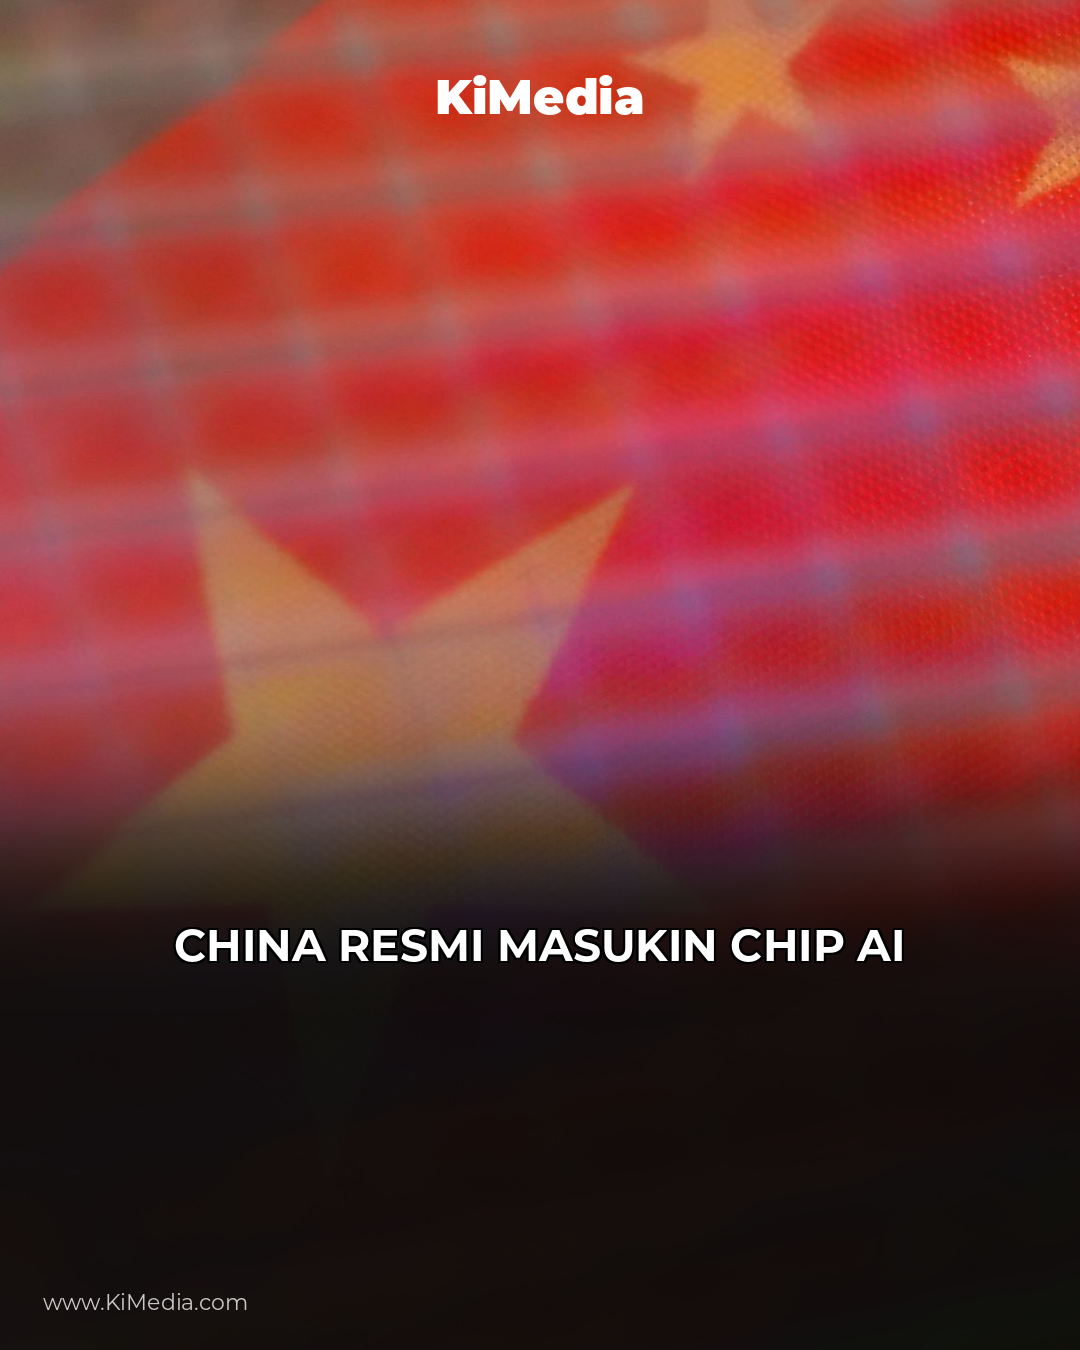
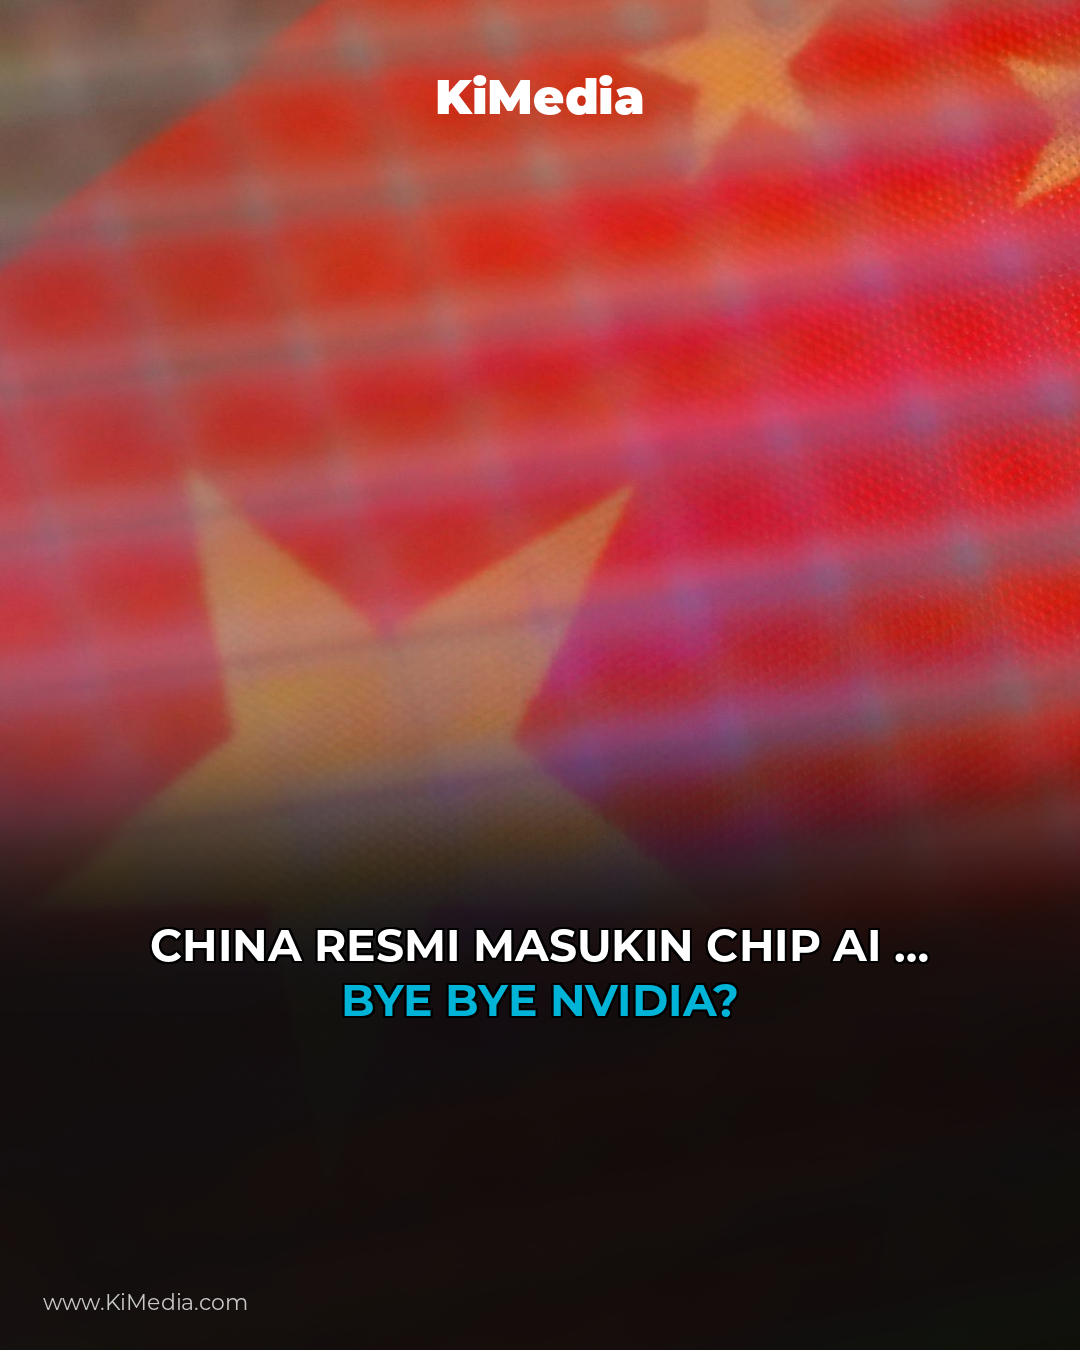
Cron Job 06.07

Changed region(s): [[0.1222, 0.6844, 0.8556, 0.7778]]

diff --git a/script/generate.py b/script/generate.py
@@ -211,6 +211,78 @@ def check_text_contrast(img, text_positions, threshold_brightness=180):
     return bright_zones / total_zones < 0.4  # <40% bright zones = OK
 
 
+# ── Smart line fitting ──
+def smart_fit_line(text, max_width, font, draw, size):
+    """Fit a single line within max_width. Returns (fitted_text, truncated_bool).
+    
+    5-stage pipeline:
+    1. Strip quotes
+    2. Word-boundary truncation with "…" (preserves grammar)
+    3. Remove clause after punctuation (— , ;)
+    4. Remove filler words
+    5. Character-level truncation (last resort)
+    """
+    def text_w(t):
+        bb = draw.textbbox((0, 0), t, font=font)
+        return bb[2] - bb[0]
+
+    if text_w(text) <= max_width:
+        return text, False
+
+    # Stage 1: Strip quotes
+    noq = text
+    for ch in ['\u201c', '\u201d', '\u2018', '\u2019', '"', '"']:
+        noq = noq.replace(ch, '')
+    noq = noq.strip('"')
+    if noq != text and text_w(noq) <= max_width:
+        return noq, True
+
+    current = noq if noq else text
+
+    # Stage 2: Word-boundary truncation
+    words = current.split()
+    if len(words) >= 2:
+        for i in range(len(words) - 1, 0, -1):
+            t = ' '.join(words[:i]) + ' \u2026'
+            if text_w(t) <= max_width:
+                return t, True
+
+    # Stage 3: Remove clause after punctuation
+    for sep in [' \u2014 ', ' \u2013 ', ' - ', ', ', '; ']:
+        if sep in current:
+            before = current.split(sep, 1)[0].strip()
+            if before and text_w(before) <= max_width:
+                return before, True
+
+    # Stage 4: Remove filler words from middle
+    if len(words) >= 3:
+        filler = {'yang', 'paling', 'sangat', 'telah', 'sudah', 'sedang',
+                  'ini', 'itu', 'para', 'serta', 'lagi', 'juga', 'atau',
+                  'dapat', 'bisa', 'di', 'ke', 'dari', 'untuk', 'dengan', 'tanpa'}
+        w = words[:]
+        changed = True
+        while changed:
+            changed = False
+            for i in range(1, len(w) - 1):
+                word = w[i].lower().strip('.,;:!?')
+                if word in filler:
+                    nw = w[:i] + w[i+1:]
+                    nt = ' '.join(nw)
+                    if text_w(nt) <= max_width:
+                        return nt, True
+                    w = nw
+                    changed = True
+                    break
+
+    # Stage 5: Character-level truncation
+    for i in range(len(current) - 1, 5, -1):
+        t = current[:i] + '\u2026'
+        if text_w(t) <= max_width:
+            return t, True
+
+    return current[:4] + '\u2026', True
+
+
 # ── Determine highlight index dynamically ──
 def get_highlight_index(num_lines):
     """2 lines → line 0, 3 lines → line 1, 1 line → no highlight"""
@@ -274,13 +346,12 @@ def generate_thumbnail(thumb_lines, highlight_idx, image_url, cfg, output_path):
     if highlight_idx is None or highlight_idx < 0:
         highlight_idx = get_highlight_index(len(lines))
 
-    # ── Auto-split long lines ──
-    # Try to fit at default size first, then downsample
+    # ── Find best font size + fit each line ──
     default_size = hl_cfg.get("default_size", 56)
     min_size = hl_cfg.get("min_size", 44)
     max_text_w = int(W * hl_cfg.get("max_width_pct", 0.88)) - PADDING_PX
 
-    # Find font size that fits ALL lines
+    # Find font size where MOST lines fit naturally
     font_size = default_size
     while font_size >= min_size:
         ft = get_font(hl_cfg.get("font", "Montserrat-Bold"), font_size)
@@ -292,56 +363,20 @@ def generate_thumbnail(thumb_lines, highlight_idx, image_url, cfg, output_path):
             break
         font_size -= 2
 
-    # If even at min_size it doesn't fit, try splitting the longest line
-    if font_size < min_size:
-        font_size = min_size
-        ft = get_font(hl_cfg.get("font", "Montserrat-Bold"), font_size)
-        # Try to split the longest line at word boundary
-        new_lines = []
-        for text in lines:
-            bb = draw_orig.textbbox((0, 0), text, font=ft)
-            tw = bb[2] - bb[0]
-            if tw > max_text_w and len(new_lines) < max_lines:
-                # Split at midpoint word boundary
-                words = text.split()
-                if len(words) >= 3:
-                    half = len(words) // 2
-                    line_a = " ".join(words[:half])
-                    line_b = " ".join(words[half:])
-                    new_lines.append(line_a)
-                    if len(new_lines) < max_lines:
-                        new_lines.append(line_b)
-                else:
-                    new_lines.append(text)
-            else:
-                if len(new_lines) < max_lines:
-                    new_lines.append(text)
-        lines = new_lines[:max_lines]
-
-    # Re-check if all lines fit at min_size
+    # If some lines still don't fit at min_size -> smart-fit them
+    font_size = max(min_size, font_size)
     ft = get_font(hl_cfg.get("font", "Montserrat-Bold"), font_size)
-    all_fit = True
+    fitted_lines = []
+    shortened_count = 0
     for text in lines:
-        bb = draw_orig.textbbox((0, 0), text, font=ft)
-        tw = bb[2] - bb[0]
-        if tw > max_text_w:
-            all_fit = False
-            break
+        fitted, shortened = smart_fit_line(text, max_text_w, ft, draw_orig, font_size)
+        fitted_lines.append(fitted)
+        if shortened:
+            shortened_count += 1
+    lines = fitted_lines
 
-    if not all_fit:
-        # Last resort: drop last line
-        while len(lines) > 1 and not all_fit:
-            lines = lines[:-1]
-            all_fit = True
-            for text in lines:
-                bb = draw_orig.textbbox((0, 0), text, font=ft)
-                tw = bb[2] - bb[0]
-                if tw > max_text_w:
-                    all_fit = False
-                    break
-        if not all_fit:
-            print(f"  [SKIP] Lines still don't fit even after reduction")
-            return None
+    if shortened_count > 0:
+        print(f"  [FIT] {shortened_count}/{len(lines)} line(s) shortened to fit")
 
     # ── Calculate positions ──
     line_spacing = hl_cfg.get("line_spacing", 1.25)

diff --git a/PLAN_V8.1.md b/PLAN_V8.1.md
@@ -1,0 +1,78 @@
+# Plan: Fix generate.py — Drop Logic → Smart Shorten + Truncate
+
+## Root Cause
+
+The current "split → drop lines from end" strategy destroys content.
+When a line is too long at min_size (44px), the code:
+1. Splits long line at word midpoint → split halves still too long
+2. Drops lines from the end → important content (highlight, quote) gets deleted
+3. Result: 1-line thumbnails with incomplete info
+
+## Real Data (measured at 44px Montserrat-Bold)
+
+| Line | Width | Available | Over |
+|------|-------|-----------|------|
+| "Illinois sahkan und-und…" | 1606px | 896px | +710px |
+| "CHINA RESMI MASUKIN CHIP AI…" | 1931px | 896px | +1035px |
+| '"Gak Ada yang Bisa Gantiin Jiwa Manusia"' | 972px | 896px | +76px |
+| '"AI kayak sutradara milyarder…"' | 1875px | 896px | +979px |
+| "Spielberg Buka Suara Soal AI di Hollywood" | 978px | 896px | +82px |
+
+## Solution: 5-Stage Line Fitting
+
+**Ganti `split → drop` dengan pipeline berikut:**
+
+### Stage 1: Strip quotes
+- Hapus semua karakter quote (`"`, `"`, `"`, `'`)
+- Aman, purely cosmetic, hemat 15-30px per line
+
+### Stage 2: Word-boundary truncation with "…" ← CORE FIX
+- Hilangkan kata dari akhir satu per satu, ganti dengan "…"
+- **Always preserves word integrity** — ga ada kata kepotong
+- Hasil: kalimat utuh (meski ga lengkap), lebih baik dari kalimat rusak
+- Bonus: "…" bikin curiosity gap = clickbait alami
+
+**All 4 kasus solved at 44px:**
+| Kasus | Hasil | Width |
+|-------|-------|-------|
+| 22.00-03 | "Illinois sahkan und-und AI paling …" | 807px ✓ |
+| 15.00-04 | "CHINA RESMI MASUKIN CHIP AI …" | 779px ✓ |
+| 16.00-05 | "Gak Ada yang Bisa Gantiin Jiwa …" | 775px ✓ |
+| 22.00-05 | "AI kayak sutradara milyarder yang …" | 838px ✓ |
+| 16.00_l0 | "Spielberg Buka Suara Soal AI di …" | 768px ✓ |
+
+### Stage 3: Remove clause after punctuation (backup)
+- Split di em-dash (` — `), koma, titik koma
+- Keep bagian utama (sebelum separator)
+- Hanya dipake kalo Stage 2 hasilnya <3 kata (terlalu pendek)
+
+### Stage 4: Remove filler words (last resort before char truncation)
+- Hapus "yang", "paling", "sangat", dll dari tengah kalimat
+- Baru dipake kalo semua stage di atas gagal
+
+### Stage 5: Character-level truncation (absolute last resort)
+- Potong karakter demi karakter + "…"
+- Hampir tidak pernah kepake karena Stage 2 udah handle semua kasus
+
+## Changes to generate.py
+
+### Remove:
+- ✅ All drop-lines-from-end logic (`while len(lines) > 1 and not all_fit`)
+- ✅ The word-midpoint split logic (ga perlu lagi)
+- ✅ `font_size < min_size` check that triggered the broken flow
+
+### Add:
+- ✅ `smart_fit_line(text, max_width, font, draw)` — 5-stage pipeline
+- ✅ Word-boundary truncation: iterasi dari belakang, cek width, tambah "…"
+- ✅ Quote stripping di `process_article()` + `smart_fit_line()`
+
+### Keep:
+- ✅ Font size stepping (56→44px)
+- ✅ `max_lines = 3`
+- ✅ Frame padding safety
+- ✅ Dark backdrop
+- ✅ Text outline
+- ✅ Contrast check
+
+## Files Changed
+- `script/generate.py` only — no config changes needed

diff --git a/2026-06-02/06.07-2.md b/2026-06-02/06.07-2.md
@@ -1,0 +1,15 @@
+# 2 -- Regulasi dan Etika
+
+---
+
+## Sanders Usulkan RUU Dana Kekayaan Berdaulat AI untuk Hasilkan Uang dari Investasi Pemerintah
+
+Senator Bernie Sanders bersiap memperkenalkan rancangan undang-undang yang akan membentuk AI Sovereign Wealth Fund atau dana kekayaan berdaulat khusus AI. Konsepnya mirip dengan sovereign wealth fund negara-negara Teluk, tapi kali ini sumber dananya berasal dari pendapatan yang dihasilkan oleh lisensi dan pajak perusahaan AI besar.
+
+Menurut dokumen awal yang beredar, dana ini akan digunakan untuk mendanai program sosial seperti pendidikan, pelatihan ulang tenaga kerja, dan jaminan sosial. Sanders berargumen bahwa karena AI berpotensi menggantikan jutaan pekerjaan, sudah seharusnya keuntungan dari teknologi ini dikembalikan ke masyarakat.
+
+Langkah ini menjadi sorotan karena mencerminkan pergeseran besar dalam cara pemerintah memandang regulasi AI. Jika sebelumnya fokusnya pada keamanan dan etika, kini mulai bergeser ke aspek redistribusi ekonomi. RUU ini diprediksi akan mendapat penolakan dari kalangan industri teknologi yang selama ini menikmati keuntungan besar tanpa banyak intervensi pemerintah.
+
+![Ilustrasi dana kekayaan berdaulat dan regulasi AI](https://www.meritalk.com/wp-content/uploads/2025/10/Adobe-Express-file-1.jpg)
+
+**Sumber:** MeriTalk -- Sanders to Introduce Bill Creating AI Sovereign Wealth Fund

diff --git a/2026-06-02/06.07-1.md b/2026-06-02/06.07-1.md
@@ -1,0 +1,15 @@
+# 1 -- Industry & Business
+
+---
+
+## Alphabet Siap Kumpulkan $80 Miliar dari Jual Saham untuk Biayai Ekspansi AI
+
+Perusahaan induk Google, Alphabet, mengumumkan rencana untuk mengumpulkan dana sebesar $80 miliar melalui penjualan saham guna mendanai pembangunan infrastruktur AI. Langkah ini menjadi salah satu penggalangan dana korporasi terbesar dalam sejarah dan menandai betapa seriusnya Alphabet dalam memenangkan perlombaan AI.
+
+Dana tersebut akan digunakan untuk membangun pusat data, membeli chip AI, dan memperluas kapasitas komputasi yang dibutuhkan untuk mengembangkan model AI generasi berikutnya. Alphabet menyebutkan bahwa permintaan terhadap layanan AI terus melonjak dan infrastruktur saat ini perlu diperluas secara masif untuk mengimbanginya.
+
+Keputusan ini datang di tengah kompetisi sengit dengan Microsoft, Amazon, dan perusahaan AI murni seperti Anthropic dan OpenAI. Dengan Google yang telah meluncurkan berbagai model Gemini dan asisten AI Spark, pendanaan ini dipandang sebagai langkah defensif sekaligus ofensif untuk mempertahankan dominasi di pasar AI.
+
+![Ilustrasi markas Google dan data center AI](https://techcrunch.com/wp-content/uploads/2025/02/GettyImages-2173545265.jpg?resize=1200,800)
+
+**Sumber:** TechCrunch -- Alphabet plans to raise $80 billion to pay for AI buildout

diff --git a/2026-06-02/06.07-4.md b/2026-06-02/06.07-4.md
@@ -1,0 +1,13 @@
+# 4 -- Model dan Research
+
+---
+
+## Godfather of AI Peringatkan Manusia Tidak Sekadar Menciptakan Makhluk Baru, Mereka Akan Jauh Lebih Pintar
+
+Geoffrey Hinton, ilmuwan yang dijuluki Godfather of Artificial Intelligence, kembali memberikan peringatan keras tentang masa depan AI. Dalam wawancara terbaru dengan Fortune, Hinton menyatakan bahwa manusia tidak sedang sekadar menciptakan alat baru, melainkan entitas yang akan jauh melampaui kecerdasan manusia dalam waktu dekat.
+
+Hinton, yang sebelumnya mengundurkan diri dari Google agar bisa berbicara lebih bebas tentang risiko AI, menekankan bahwa kekhawatiran terbesarnya bukan pada AI yang bisa menulis esai atau membuat gambar, tapi pada sistem yang bisa belajar dan menetapkan tujuan mereka sendiri. Ia membandingkan transisi ini dengan momen ketika primata pertama berevolusi menjadi manusia.
+
+Pernyataan ini menjadi peringatan terbaru dari para pionir AI yang merasa teknologi yang mereka ciptakan mulai lepas kendali. Hinton bergabung dengan Yoshua Bengio dan tokoh lain yang mendesak pemerintah untuk mengambil langkah serius dalam mengatur pengembangan model AI canggih sebelum terlambat.
+
+**Sumber:** Fortune -- Godfather of AI says we are not just creating new beings, they will be much smarter than us

diff --git a/2026-06-02/06.07-3.md b/2026-06-02/06.07-3.md
@@ -1,0 +1,13 @@
+# 3 -- Model dan Research
+
+---
+
+## OpenAI Resmi Hadirkan Model Frontier dan Codex di AWS, Buka Pintu Adopsi Enterprise
+
+OpenAI mengumumkan bahwa model AI frontier mereka serta Codex, agen coding AI, kini tersedia secara resmi di Amazon Web Services (AWS). Ini merupakan langkah besar dalam strategi distribusi OpenAI yang sebelumnya hanya menawarkan akses melalui platform sendiri dan mitra tertentu.
+
+Dengan hadirnya model-model ini di AWS, perusahaan enterprise bisa langsung mengintegrasikan kemampuan GPT terbaru dan Codex ke dalam infrastruktur cloud yang sudah mereka miliki. Artinya, data tetap aman di ekosistem AWS tanpa perlu dikirim ke server OpenAI.
+
+Keputusan ini juga menandai perubahan strategi kompetitif. Di tengah persaingan dengan Anthropic yang menyediakan Claude melalui berbagai platform, dan Google yang punya Vertex AI, OpenAI kini mencakup lebih banyak pintu masuk ke pelanggan korporasi. Langkah ini bisa mempercepat adopsi AI di sektor perbankan, kesehatan, dan manufaktur yang membutuhkan kepatuhan data ketat.
+
+**Sumber:** OpenAI -- OpenAI frontier models and Codex are now available on AWS
